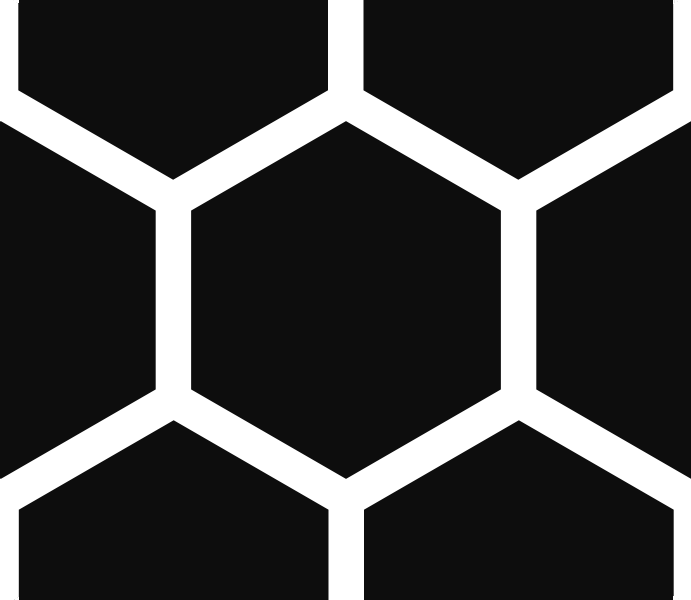
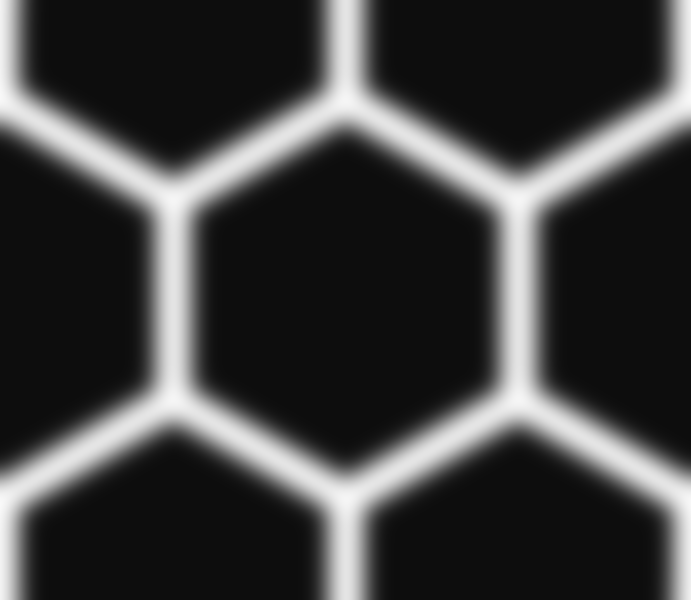
added svg for animation

diff --git a/index.html b/index.html
@@ -32,13 +32,16 @@
                 <div class="collapse navbar-collapse" id="navbarResponsive">
                     <ul class="navbar-nav ml-auto">
                         <li class="nav-item">
-                            <a class="nav-link js-scroll-trigger" href="#about">About</a>
+                            <a class="nav-link js-scroll-trigger" data-toggle="collapse" data-target=".navbar-collapse"
+                                href="#about">About</a>
                         </li>
                         <li class="nav-item">
-                            <a class="nav-link js-scroll-trigger" href="#services">Services</a>
+                            <a class="nav-link js-scroll-trigger" data-toggle="collapse" data-target=".navbar-collapse"
+                                href="#services">Services</a>
                         </li>
                         <li class="nav-item">
-                            <a class="nav-link js-scroll-trigger" href="#contact">Contact</a>
+                            <a class="nav-link js-scroll-trigger" data-toggle="collapse" data-target=".navbar-collapse"
+                                href="#contact">Contact</a>
                         </li>
                     </ul>
                 </div>
@@ -46,13 +49,18 @@
         </nav>
         <div class="nav-padding"></div>
 
-        <section id="landing">
-            hey <br>
+        <section id="landing">landing<br>
             <div class="container">
                 <div class="row">
-                    <button class="btn col-sm btn-outline-primary powerlevel">Stuff</button>
-                    <button class="btn col-sm btn-outline-primary powerlevel">Stuff</button>
-                    <button class="btn col-sm btn-outline-primary powerlevel">Stuff</button>
+                    <button class="btn col-sm btn-outline-primary powerlevel-btn">Stuff</button>
+                    <button class="btn col-sm btn-outline-primary powerlevel-btn">Stuff</button>
+                    <button class="btn col-sm btn-outline-primary powerlevel-btn">Stuff</button>
+                </div>
+                <div class="powerlevel-svg">
+                    <svg class="powerlevel-svg-int" height=100% viewBox="0 0 140 140">
+                        <polygon class="polymorph" preserveAspectRatio="xMidYMin" stroke-width="1" stroke=green
+                        points="70 0 136.574 48.369 111.145 126.631 28.855 126.631 3.426 48.369"></polygon>
+                    </svg>
                 </div>
             </div>
             <div class="testing"></div>

diff --git a/css/main.css b/css/main.css
@@ -4,7 +4,7 @@
 
 .testing{
     border:1px solid green;
-    padding: 150px;
+    padding: 250px;
 }
 
 .navbar-custom{  
@@ -15,10 +15,21 @@
     background-color: rgba(0, 0, 0, 0.5);
 }
 
-.powerlevel{  
+.powerlevel-btn{  
     font-size: 1rem;
     letter-spacing: .05rem;
     background-color: rgba(0, 0, 0, 0.5);
+}
+
+.powerlevel-svg{
+    width: 100%;
+    height: 20rem;
+}
+
+.powerlevel-svg-int{
+    margin: auto;
+    display: block; 
+    padding: 2.5rem; 
 }
 
 .navbar-inverse .navbar-toggler-icon{
@@ -30,9 +41,10 @@
 }
 
 .bg{
+    
     background-image: url("../resources/tile-bg.png"), url("../resources/space.jpg");
     background-position: center, cover;
-    background-size: 2.5rem, cover;
+    background-size: 4rem, cover;
     height: 100%;
 }
 .content{
